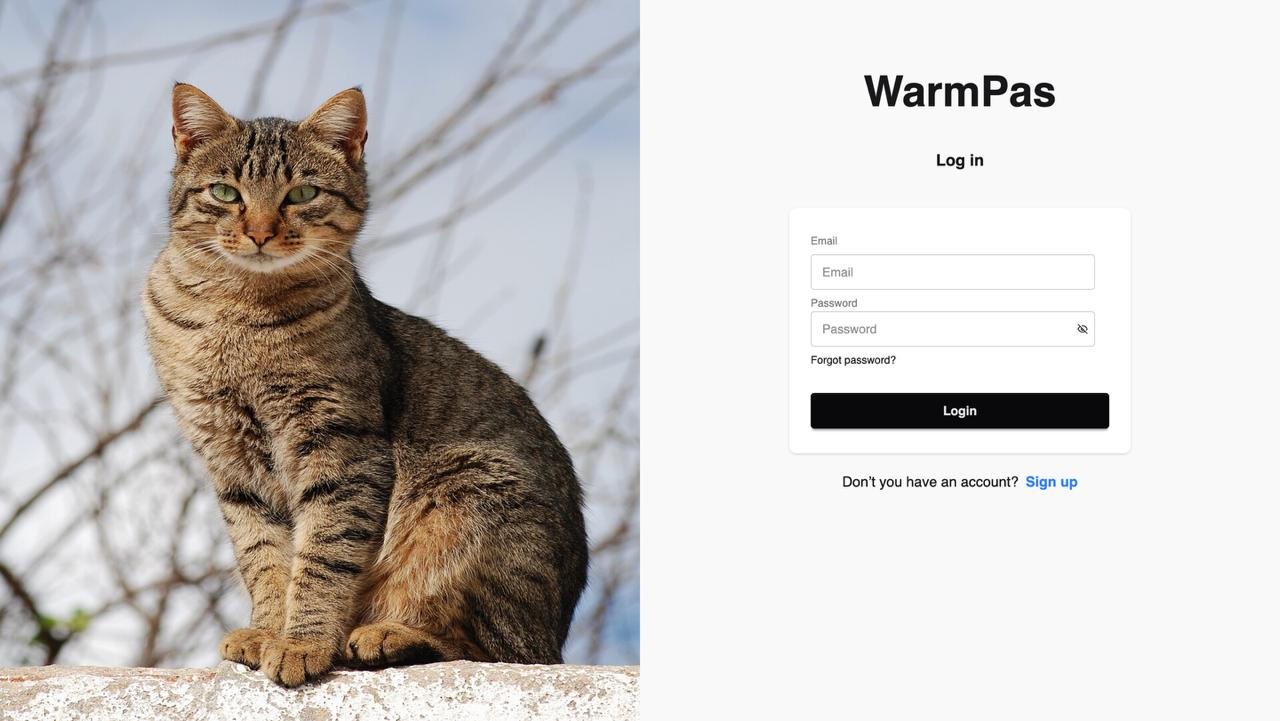
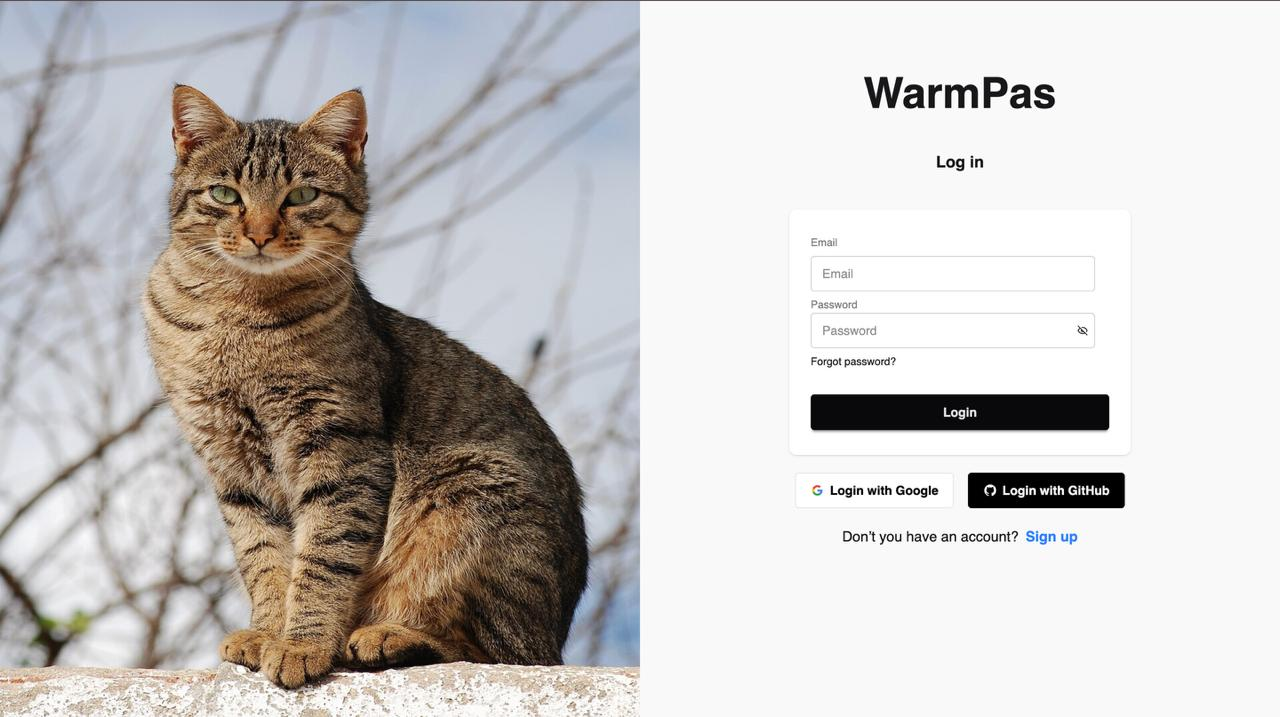
screen

diff --git a/README.md b/README.md
@@ -28,13 +28,13 @@ https://warmpawscozy.netlify.app
 ## 🖼 Screenshots
 
 ### Login Page
-![Login Page](/assets/login.jpg) 
+![Login Page](./assets/login.jpg) 
 
 ### Home Page
-![Home Page](/assets/home.jpg)  
+![Home Page](./assets/home.jpg)  
 
 ### Local Services
-![Local Services](/assets/services.jpg)  
+![Local Services](./assets/services.jpg)  
 
 
 ---
